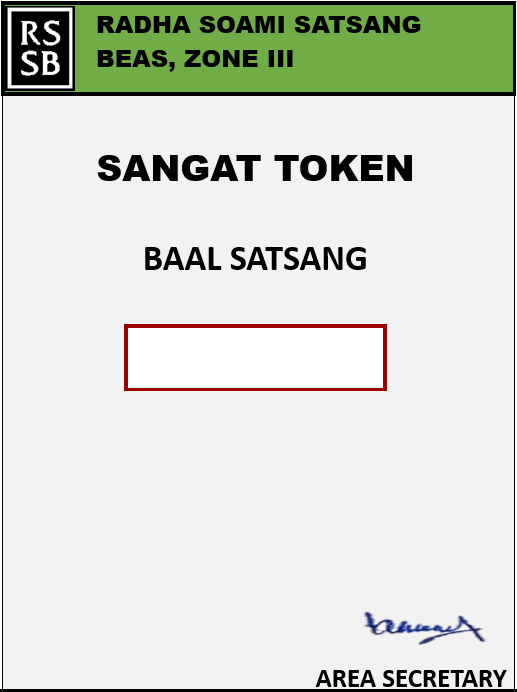
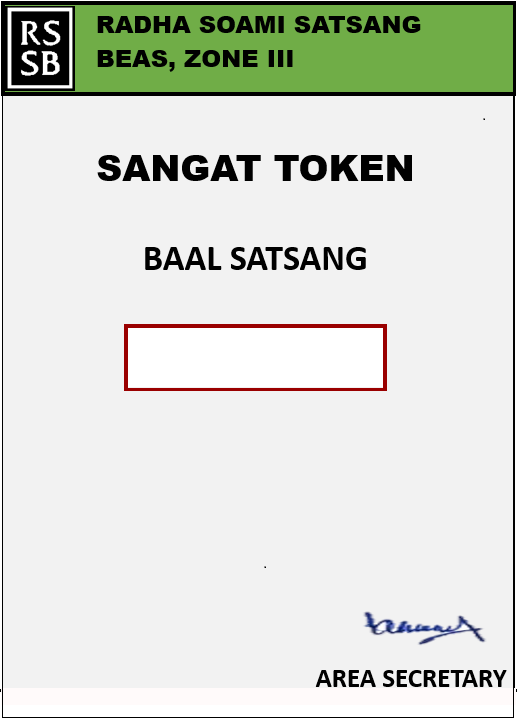
baal satsang image change

diff --git a/config.py b/config.py
@@ -98,7 +98,7 @@ _COMMON_BAAL_SATSANG_PDF_LAYOUT_DEFAULTS = {
     'orientation': 'P', 'unit': 'mm', 'format': 'A4', 'margin_mm': 10, 'gap_mm': 5
 }
 BAAL_SATSANG_PDF_LAYOUTS = {
-    "sangat": {**_COMMON_BAAL_SATSANG_PDF_LAYOUT_DEFAULTS, 'badge_w_mm': 60, 'badge_h_mm': 80, 'margin_mm': 3, 'gap_mm': 0.5},
+    "sangat": {**_COMMON_BAAL_SATSANG_PDF_LAYOUT_DEFAULTS, 'badge_w_mm': 67.5, 'badge_h_mm': 87.5, 'margin_mm': 3, 'gap_mm': 0.5},
     "visitor": {**_COMMON_BAAL_SATSANG_PDF_LAYOUT_DEFAULTS, 'badge_w_mm': 100, 'badge_h_mm': 35, 'margin_mm': 3, 'gap_mm': 0},
     "sibling_parent": {**_COMMON_BAAL_SATSANG_PDF_LAYOUT_DEFAULTS, 'badge_w_mm': 100, 'badge_h_mm': 35, 'margin_mm': 3, 'gap_mm': 0},
     "single_child_parent": {**_COMMON_BAAL_SATSANG_PDF_LAYOUT_DEFAULTS, 'badge_w_mm': 100, 'badge_h_mm': 35, 'margin_mm': 3, 'gap_mm': 0},
